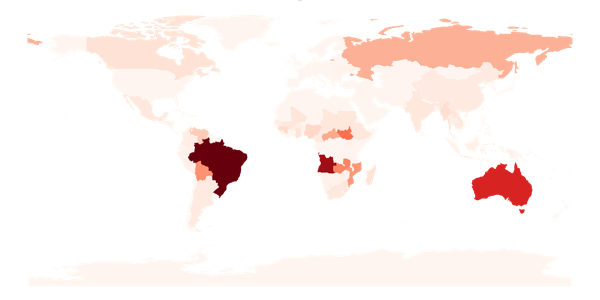
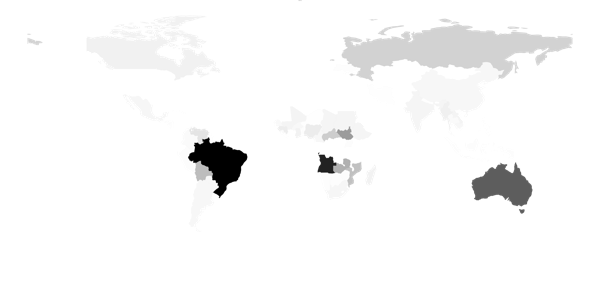
made individual env pain greyscale for easier processing

diff --git a/scripts/pain2map/pain_mode.py b/scripts/pain2map/pain_mode.py
@@ -36,11 +36,11 @@ class PainMode(Enum):
     Physical = ("physical", os.path.join("out", "sov_data", "physical-sov.csv"), "RdPu", "TODO")
     Environmental = ("env", os.path.join("out", "sov_data", "env-sov.csv"), "Greys", "TODO")
 
-    Fire = ("fire", os.path.join("out", "sov_data", "std-env-fire-sov.csv"), "Reds", "TODO")
-    Water = ("water", os.path.join("out", "sov_data", "env-water-sov.csv"), "Blues", "TODO")
-    Earth = ("earth", os.path.join("out", "sov_data", "env-earth-sov.csv"), "Greens", "TODO")
-    Wood = ("wood", os.path.join("out", "sov_data", "env-wood-sov.csv"), "Greens", "TODO")
-    Metal = ("metal", os.path.join("out", "sov_data", "env-metal-sov.csv"), "Reds", "TODO")
+    Fire = ("fire", os.path.join("out", "sov_data", "std-env-fire-sov.csv"), "Greys", "TODO")
+    Water = ("water", os.path.join("out", "sov_data", "env-water-sov.csv"), "Greys", "TODO")
+    Earth = ("earth", os.path.join("out", "sov_data", "env-earth-sov.csv"), "Greys", "TODO")
+    Wood = ("wood", os.path.join("out", "sov_data", "env-wood-sov.csv"), "Greys", "TODO")
+    Metal = ("metal", os.path.join("out", "sov_data", "env-metal-sov.csv"), "Greys", "TODO")
 
     @staticmethod
     def from_string(name: str) -> Optional["PainMode"]:
